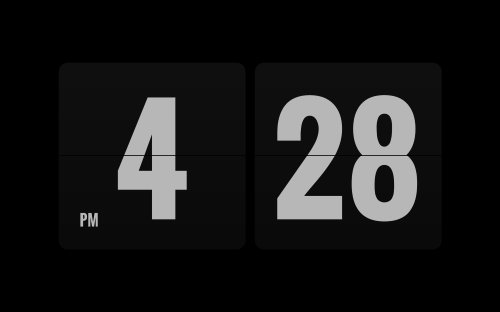
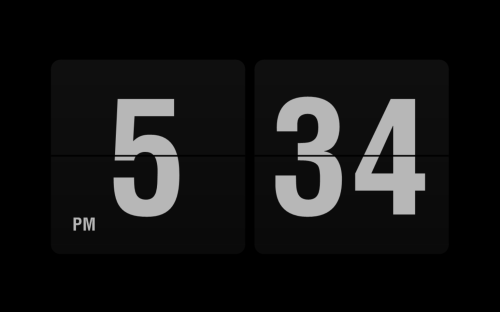
readme updates

diff --git a/README.md b/README.md
@@ -1,11 +1,13 @@
 # FlipIt
+
 Flip Clock Screensaver. Inspired by [Fliqlo](http://fliqlo.com/). Fliqlo on Windows stopped working with a recent (Dec 2015?) Flash update which prompted this project. This project does NOT use Flash.
 
 ![Screenshot](screenshot.png)
 
+![Screenshot](worldtimes.png)
+
 ## Requirements
 
-* Currently uses and requires the [Oswald](https://www.google.com/fonts#UsePlace:use/Collection:Oswald) (Bold 700) font, available from Google.
 * Microsoft Windows
 * .NET Framework 4.8
 
